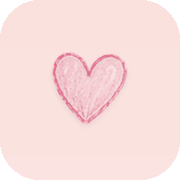
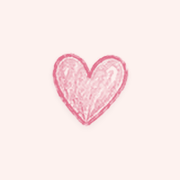
Add files via upload

diff --git a/index.html b/index.html
@@ -4,14 +4,15 @@
 <meta charset="utf-8">
 <meta name="viewport" content="width=device-width, initial-scale=1, viewport-fit=cover">
 <meta name="theme-color" content="#FDF2EF">
-<title>Клаптик</title>
-<link rel="manifest" href="manifest.json">
-<link rel="icon" href="icons/favicon-32.png" sizes="32x32">
-<link rel="apple-touch-icon" href="icons/apple-touch-icon.png">
-<meta name="apple-mobile-web-app-capable" content="yes">
-<meta name="apple-mobile-web-app-status-bar-style" content="black-translucent">
-<meta name="apple-mobile-web-app-title" content="Клаптик">
+<title>Клаптик — нотатки</title>
+<meta name="description" content="Нотатки з емодзі, власними категоріями та списками.">
+<link rel="manifest" href="./manifest.json">
+<link rel="icon" href="./icons/favicon.png">
+<link rel="apple-touch-icon" href="./icons/apple-touch-icon.png">
 <meta name="mobile-web-app-capable" content="yes">
+<meta name="apple-mobile-web-app-capable" content="yes">
+<meta name="apple-mobile-web-app-status-bar-style" content="default">
+<meta name="apple-mobile-web-app-title" content="Клаптик">
 <link rel="preconnect" href="https://fonts.googleapis.com">
 <link rel="preconnect" href="https://fonts.gstatic.com" crossorigin>
 <link href="https://fonts.googleapis.com/css2?family=Caveat:wght@500;600;700&family=Comfortaa:wght@400;500;600;700&family=Nunito:wght@400;500;600;700&display=swap" rel="stylesheet">
@@ -64,6 +65,11 @@ header{text-align:center;margin-bottom:22px}
   text-transform:lowercase;color:var(--ink)}
 .tagline{font-family:'Caveat',cursive;font-size:22px;color:var(--rose-deep);margin-top:-2px}
 
+.install{display:none;margin:12px auto 0;padding:9px 18px;border-radius:999px;
+  font-family:'Comfortaa',sans-serif;font-size:12.5px;font-weight:600;letter-spacing:.04em;
+  color:#fff;background:linear-gradient(130deg,#F3A6B9,#E0798F);
+  box-shadow:0 10px 20px -10px rgba(224,121,143,.85)}
+.install:active{transform:scale(.96)}
 .search{position:relative;margin-bottom:14px}
 .search input{width:100%;padding:13px 16px 13px 42px;border-radius:999px;border:1.5px solid var(--rose-mist);
   background:var(--paper-2);outline:none;font-size:14.5px;box-shadow:0 6px 16px -12px rgba(214,120,140,.6)}
@@ -253,6 +259,7 @@ textarea.f-text::placeholder{color:var(--ink-faint)}
     </svg>
     <div class="brand">клаптик</div>
     <div class="tagline">маленькі думки, великі списки</div>
+    <button class="install" id="installBtn">＋ встановити застосунок</button>
   </header>
 
   <div class="search">
@@ -589,7 +596,22 @@ document.addEventListener('keydown',e=>{
   if(e.key==='Escape'){const m=$('#modals').lastElementChild;if(m)close(m)}
 });
 render();
-if('serviceWorker' in navigator){addEventListener('load',()=>navigator.serviceWorker.register('sw.js').catch(()=>{}));}
+
+/* ---- встановлення на телефон ---- */
+let deferredPrompt=null;
+addEventListener('beforeinstallprompt',e=>{
+  e.preventDefault(); deferredPrompt=e; $('#installBtn').style.display='block';
+});
+$('#installBtn').onclick=async()=>{
+  if(!deferredPrompt)return;
+  deferredPrompt.prompt(); await deferredPrompt.userChoice;
+  deferredPrompt=null; $('#installBtn').style.display='none';
+};
+addEventListener('appinstalled',()=>{$('#installBtn').style.display='none'});
+
+if('serviceWorker' in navigator && location.protocol.startsWith('http')){
+  addEventListener('load',()=>navigator.serviceWorker.register('./sw.js').catch(()=>{}));
+}
 </script>
 </body>
 </html>

diff --git a/sw.js b/sw.js
@@ -1,37 +1,55 @@
-const CACHE = 'klaptyk-v1';
-const FILES = [
-  './',
-  './index.html',
-  './manifest.json',
-  './icons/icon-192.png',
-  './icons/icon-512.png',
-  './icons/icon-512-maskable.png',
-  './icons/apple-touch-icon.png'
+/* Піднімай версію нижче щоразу, коли міняється index.html,
+   інакше телефон і далі показуватиме стару копію. */
+const CACHE_VERSION = "klaptyk-v1";
+
+const CORE = [
+  "./",
+  "./index.html",
+  "./manifest.json",
+  "./icons/icon-192.png",
+  "./icons/icon-512.png",
+  "./icons/icon-maskable-192.png",
+  "./icons/icon-maskable-512.png",
+  "./icons/apple-touch-icon.png",
+  "./icons/favicon.png"
 ];
 
-self.addEventListener('install', e => {
-  e.waitUntil(caches.open(CACHE).then(c => c.addAll(FILES)));
-  self.skipWaiting();
-});
-
-self.addEventListener('activate', e => {
+self.addEventListener("install", e => {
   e.waitUntil(
-    caches.keys().then(keys =>
-      Promise.all(keys.filter(k => k !== CACHE).map(k => caches.delete(k)))
-    )
+    caches.open(CACHE_VERSION)
+      .then(c => c.addAll(CORE))
+      .then(() => self.skipWaiting())
   );
-  self.clients.claim();
 });
 
-self.addEventListener('fetch', e => {
-  if (e.request.method !== 'GET') return;
+self.addEventListener("activate", e => {
+  e.waitUntil(
+    caches.keys()
+      .then(keys => Promise.all(keys.filter(k => k !== CACHE_VERSION).map(k => caches.delete(k))))
+      .then(() => self.clients.claim())
+  );
+});
+
+/* Спершу мережа, потім кеш — щоб нова версія приїжджала одразу,
+   але офлайн усе одно працювало. */
+self.addEventListener("fetch", e => {
+  const req = e.request;
+  if (req.method !== "GET") return;
   e.respondWith(
-    caches.match(e.request).then(cached =>
-      cached || fetch(e.request).then(res => {
-        const copy = res.clone();
-        caches.open(CACHE).then(c => c.put(e.request, copy));
+    fetch(req)
+      .then(res => {
+        const url = new URL(req.url);
+        const cacheable = res.status === 200 && (
+          url.origin === location.origin ||
+          url.hostname.endsWith("fonts.googleapis.com") ||
+          url.hostname.endsWith("fonts.gstatic.com")
+        );
+        if (cacheable) {
+          const copy = res.clone();
+          caches.open(CACHE_VERSION).then(c => c.put(req, copy));
+        }
         return res;
-      }).catch(() => cached)
-    )
+      })
+      .catch(() => caches.match(req).then(hit => hit || caches.match("./index.html")))
   );
 });

diff --git a/ЯК-ВСТАНОВИТИ.md b/ЯК-ВСТАНОВИТИ.md
@@ -1,0 +1,42 @@
+# Клаптик — як поставити на телефон
+
+У папці лежать:
+
+```
+index.html
+manifest.json
+sw.js
+icons/
+```
+
+Усі вони мають лежати **разом, в одній теці** — інакше не буде ні іконки, ні офлайну.
+
+## Встановлення (GitHub Pages, як у «Диханні»)
+
+Установлення вимагає адреси `https://` — з локального файлу браузер пропонує лише
+«зберегти посилання», без власної іконки.
+
+1. Створи репозиторій, наприклад `klaptyk`, і завантаж туди весь вміст цієї папки
+   (разом з текою `icons/`).
+2. Settings → Pages → Branch: `main`, папка `/ (root)` → Save.
+3. За хвилину сторінка буде за адресою `https://<твій-нік>.github.io/klaptyk/`.
+4. Відкрий цю адресу в Chrome на телефоні. У шапці застосунку зʼявиться кнопка
+   **«＋ встановити застосунок»** — тисни її. Або меню ⋮ → «Додати на головний екран».
+
+На iPhone: Safari → «Поділитися» → «На екран Домівки». Кнопки «Встановити» там немає,
+це особливість Safari.
+
+Після встановлення «Клаптик» стоїть окремою іконкою з рожевим серцем, відкривається на
+весь екран без адресного рядка і **працює без інтернету**.
+
+## Якщо захочеш оновити застосунок
+
+Коли я зроблю нову версію:
+
+1. Заміни файли на хостингу.
+2. У `sw.js` зміни рядок `CACHE_VERSION = "klaptyk-v1"` на `v2`
+   (інакше телефон показуватиме стару версію з памʼяті).
+3. На телефоні закрий застосунок і відкрий знову.
+
+Нотатки при оновленні залишаються на місці — вони зберігаються окремо, у памʼяті
+пристрою. Синхронізації між пристроями немає.
